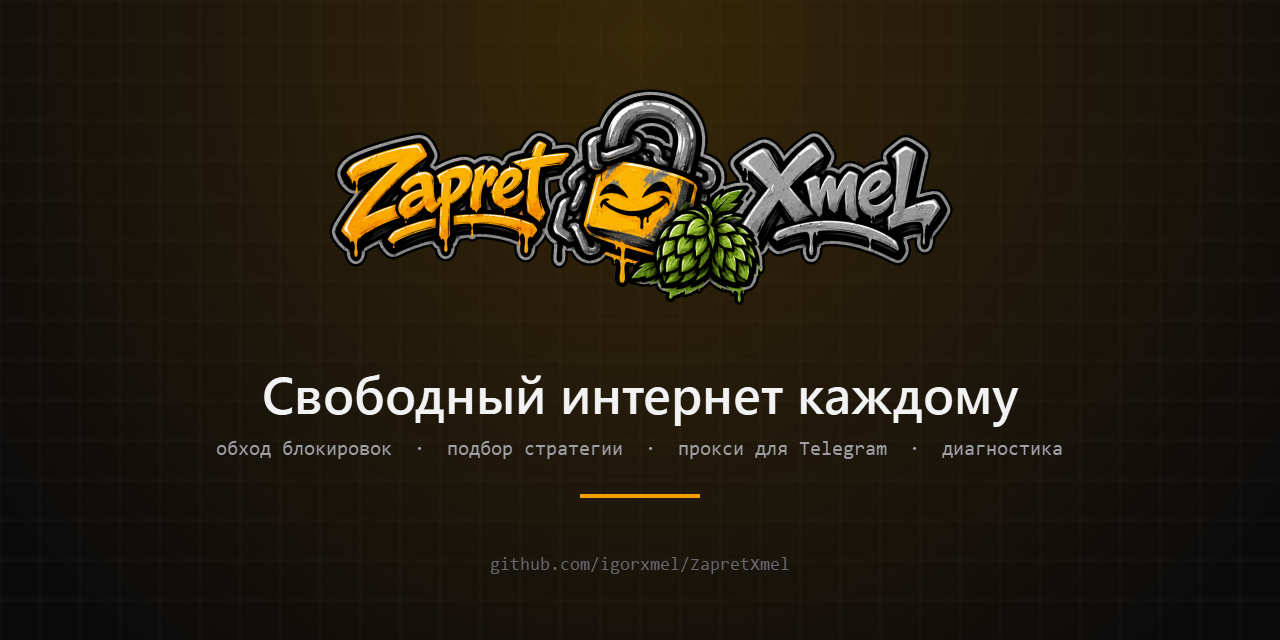
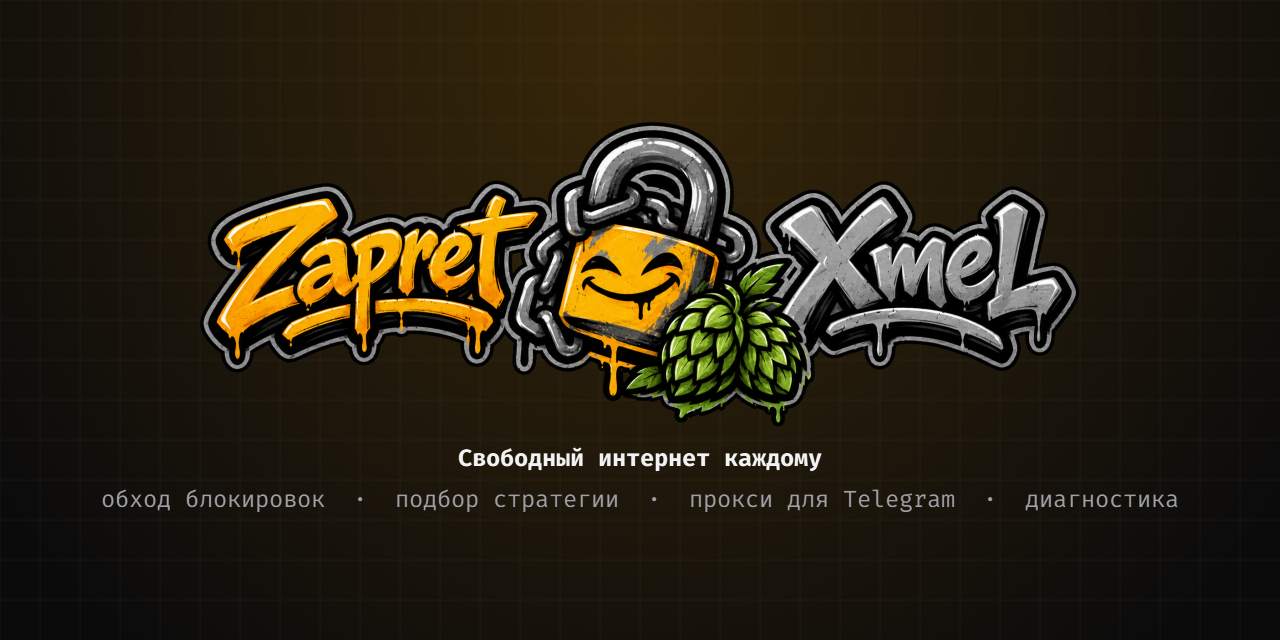
docs(сайт): картинка репозитория — крупный баннер и две строки вплотную
GitHub показывает не всю картинку, а центральную полосу около 2,7:1, и в первой
версии строка со ссылкой внизу и верх логотипа оказались обрезаны. Теперь вся
колонка — баннер и две строки — собрана вплотную и поставлена по центру
безопасной полосы. Лишнее убрано: ссылка внизу (её срезало бы, и на странице
репозитория она и так видна) и оранжевая черта.

Баннер стал крупнее: прозрачные поля в файле обрезаются, и зазор считается от
рисунка, а не от файла. Слоган и строка возможностей — одного кегля, моноширинным
шрифтом Fira Code. Кегль подбирается по ширине длинной строки: заданный числом
вылез за края и съел «о» в слове «обход».

diff --git a/tools/make_site_assets.py b/tools/make_site_assets.py
@@ -53,7 +53,21 @@ CARD_BANNER_WIDTH = 760
 # важное держится в стороне от краёв. Это не карточка для мессенджеров: у той другая
 # пропорция, и на GitHub она встала бы с полями.
 PREVIEW_SIZE = (1280, 640)
-PREVIEW_BANNER_WIDTH = 640
+PREVIEW_BANNER_WIDTH = 880
+
+# GitHub показывает не всю картинку, а центральную полосу примерно 2,7:1 — сверху и
+# снизу срезается около восьмой части. Всё, что должно быть видно, держится внутри
+# неё: в первой версии строка со ссылкой внизу и верх логотипа оказались обрезаны.
+PREVIEW_SAFE = (100, 540)
+
+# Моноширинный, «терминальный»: на странице репозитория картинка соседствует с
+# кодом, и такой шрифт читается как своя. Он должен стоять в системе — для
+# картинки, которую рисуют раз в несколько месяцев, тащить шрифт в репозиторий
+# незачем; запасные нужны, чтобы без него скрипт не упал, а нарисовал похоже.
+PREVIEW_FONTS = ("Fira Code", "Cascadia Code", "Consolas")
+
+# Поле слева и справа: GitHub подрезает картинку и по бокам на узких экранах.
+PREVIEW_MARGIN = 70
 
 # Экраны для карусели. Остальные не годятся для публичной страницы: на
 # Telegram видна ссылка с секретом прокси, в логах и настройках — пути с
@@ -157,6 +171,27 @@ def social_card(target: Path) -> None:
     print(f"{target.relative_to(ROOT)}  ({target.stat().st_size // 1024} КБ)")
 
 
+def trimmed(image: QImage, threshold: int = 8) -> QImage:
+    """Обрезает прозрачные поля по краям.
+
+    В файле баннера под рисунком запас прозрачных пикселей, и расстояние до текста
+    ниже получалось не тем, что задано в коде: на глаз логотип и подпись висели
+    по отдельности. После обрезки зазор считается от самого рисунка.
+    """
+    width, height = image.width(), image.height()
+    rows = [
+        y for y in range(height)
+        if any(image.pixelColor(x, y).alpha() > threshold for x in range(0, width, 3))
+    ]
+    columns = [
+        x for x in range(width)
+        if any(image.pixelColor(x, y).alpha() > threshold for y in range(0, height, 3))
+    ]
+    if not rows or not columns:
+        return image
+    return image.copy(columns[0], rows[0], columns[-1] - columns[0] + 1, rows[-1] - rows[0] + 1)
+
+
 def social_preview(target: Path) -> None:
     """Рисует картинку для репозитория: баннер, слоган и список возможностей."""
     from app.ui.theme.tokens import BRAND, COLORS
@@ -187,31 +222,64 @@ def social_preview(target: Path) -> None:
     banner = QImage(str(ASSETS / "banner.png"))
     if banner.isNull():
         raise SystemExit("не удалось прочитать assets/banner.png")
-    banner = banner.scaledToWidth(PREVIEW_BANNER_WIDTH, Qt.TransformationMode.SmoothTransformation)
-    painter.drawImage(QPointF((width - banner.width()) / 2, 64), banner)
+    banner = trimmed(banner)
 
-    def line(text: str, top: int, family: str, pixels: int, colour: str, bold: bool = False):
+    # Группа — баннер и две строки под ним — собирается в одну колонку и ставится по
+    # центру безопасной полосы. Расстояния между частями малы нарочно: чем ближе они,
+    # тем больше читается как одно целое, а не как три отдельные вещи.
+    from PyQt6.QtGui import QFontDatabase, QFontMetrics
+
+    installed = set(QFontDatabase.families())
+    family = next((name for name in PREVIEW_FONTS if name in installed), "Consolas")
+
+    features = "обход блокировок  ·  подбор стратегии  ·  прокси для Telegram  ·  диагностика"
+
+    # Кегль общий у обеих строк — слоган не должен быть ни крупнее, ни мельче второй
+    # строки — и подбирается по ширине самой длинной: задать число и надеяться
+    # нельзя, в первой версии строка вылезла за края и обрезала «о» в слове «обход».
+    size = 28
+    while size > 14:
+        probe = QFont(family)
+        probe.setPixelSize(size)
+        if QFontMetrics(probe).horizontalAdvance(features) <= width - 2 * PREVIEW_MARGIN:
+            break
+        size -= 1
+
+    gap_banner, gap_lines = 14, 4
+    row = round(size * 1.6)
+    low, high = PREVIEW_SAFE
+    room = high - low - 10  # небольшой запас внутри безопасной полосы
+
+    # Баннер как можно крупнее, но так, чтобы вся колонка влезла в безопасную полосу.
+    text_height = gap_banner + row * 2 + gap_lines
+    ratio = banner.width() / banner.height()
+    banner_width = min(PREVIEW_BANNER_WIDTH, (room - text_height) * ratio)
+    banner = banner.scaledToWidth(round(banner_width), Qt.TransformationMode.SmoothTransformation)
+
+    stack = banner.height() + text_height
+    top = low + (high - low - stack) / 2
+
+    painter.drawImage(QPointF((width - banner.width()) / 2, top), banner)
+
+    def line(text: str, y: float, colour: str, bold: bool) -> None:
         font = QFont(family)
-        font.setPixelSize(pixels)
-        font.setWeight(QFont.Weight.DemiBold if bold else QFont.Weight.Normal)
+        font.setPixelSize(size)
+        font.setWeight(QFont.Weight.Bold if bold else QFont.Weight.Normal)
         painter.setFont(font)
         painter.setPen(QColor(colour))
         painter.drawText(
-            QRectF(60, top, width - 120, pixels * 1.8),
+            QRectF(PREVIEW_MARGIN, y, width - 2 * PREVIEW_MARGIN, row),
             int(Qt.AlignmentFlag.AlignHCenter | Qt.AlignmentFlag.AlignVCenter),
             text,
         )
 
-    line("Свободный интернет каждому", 346, "Segoe UI", 52, COLORS["text"], bold=True)
-    line(
-        "обход блокировок  ·  подбор стратегии  ·  прокси для Telegram  ·  диагностика",
-        430, "Consolas", 20, COLORS["text_dim"],
+    first = top + banner.height() + gap_banner
+    line("Свободный интернет каждому", first, COLORS["text"], bold=True)
+    line(features, first + row + gap_lines, COLORS["text_dim"], bold=False)
+    print(
+        f"баннер {banner.width()}x{banner.height()}; кегль {size}; шрифт: {family}; "
+        f"колонка {round(top)}–{round(top + stack)} из безопасных {low}–{high}"
     )
-
-    # Единственный оранжевый акцент, как и на самом сайте.
-    painter.fillRect(QRectF(width / 2 - 60, 494, 120, 4), QColor(BRAND["orange"]))
-
-    line("github.com/igorxmel/ZapretXmel", 548, "Consolas", 18, COLORS["text_muted"])
     painter.end()
 
     if not image.save(str(target)):
